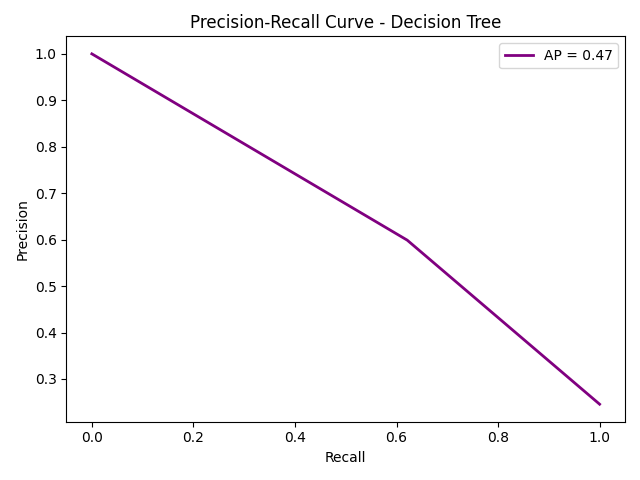
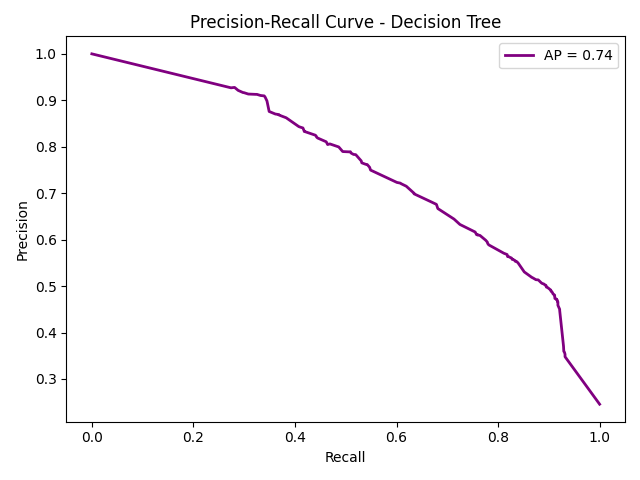
feat: decision tree and random forest

diff --git a/assignment1/main.py b/assignment1/main.py
@@ -5,7 +5,6 @@ import matplotlib.pyplot as plt
 from sklearn.preprocessing import OneHotEncoder, StandardScaler
 from sklearn.compose import ColumnTransformer
 from sklearn.pipeline import Pipeline
-from sklearn.linear_model import LogisticRegression
 from sklearn.tree import DecisionTreeClassifier
 from sklearn.ensemble import RandomForestClassifier
 from sklearn.metrics import (
@@ -105,12 +104,25 @@ preprocess = ColumnTransformer(
 )
 
 # --------------------------
-# 5. Model Definitions
+# 5. Model Definitions with Hyperparameters
 # --------------------------
 models = {
-    "Logistic Regression": LogisticRegression(max_iter=5000, solver="saga"),
-    "Decision Tree": DecisionTreeClassifier(random_state=42),
-    "Random Forest": RandomForestClassifier(n_estimators=100, random_state=42),
+    "Decision Tree": DecisionTreeClassifier(
+        random_state=42,
+        max_depth=15,
+        min_samples_split=10,
+        min_samples_leaf=5,
+        criterion="gini",
+    ),
+    "Random Forest": RandomForestClassifier(
+        n_estimators=150,
+        random_state=42,
+        max_depth=15,
+        min_samples_split=10,
+        min_samples_leaf=5,
+        max_features="sqrt",
+        bootstrap=True,
+    ),
 }
 
 # --------------------------
@@ -132,8 +144,8 @@ for name, clf in models.items():
 
     # print results
     print(f"\n=== {name} ===")
-    print(f"训练时间: {end_train - start_train:.3f} 秒")
-    print(f"预测时间: {end_pred - start_pred:.3f} 秒")
+    print(f"Training time: {end_train - start_train:.3f} s")
+    print(f"Prediction time: {end_pred - start_pred:.3f} s")
     print("Accuracy:", accuracy_score(y_test, y_pred))
     print(classification_report(y_test, y_pred))
 
@@ -146,7 +158,7 @@ for name, clf in models.items():
     )
     plt.plot([0, 1], [0, 1], color="navy", lw=2, linestyle="--")
     plt.xlabel("False Positive Rate")
-    plt.ylabel("True Positive Rate (Recall)")
+    plt.ylabel("True Positive Rate")
     plt.title(f"ROC Curve - {name}")
     plt.legend(loc="lower right")
     plt.tight_layout()
